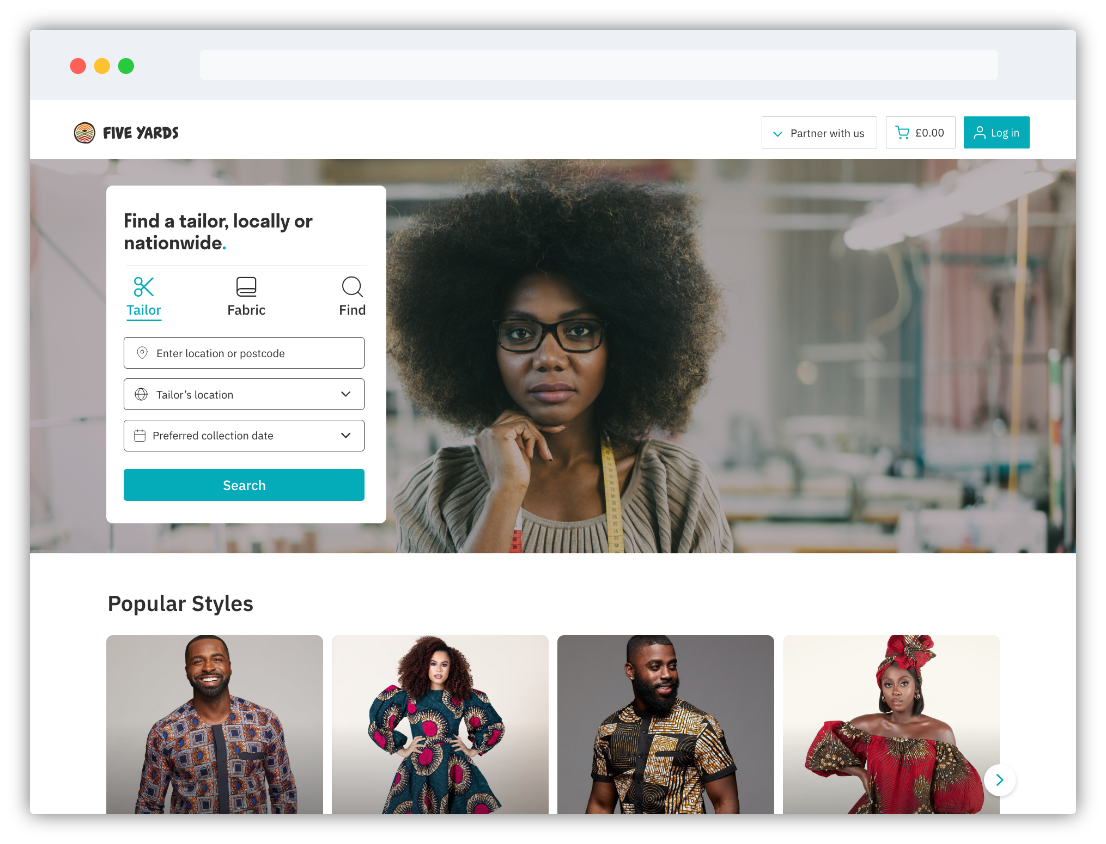
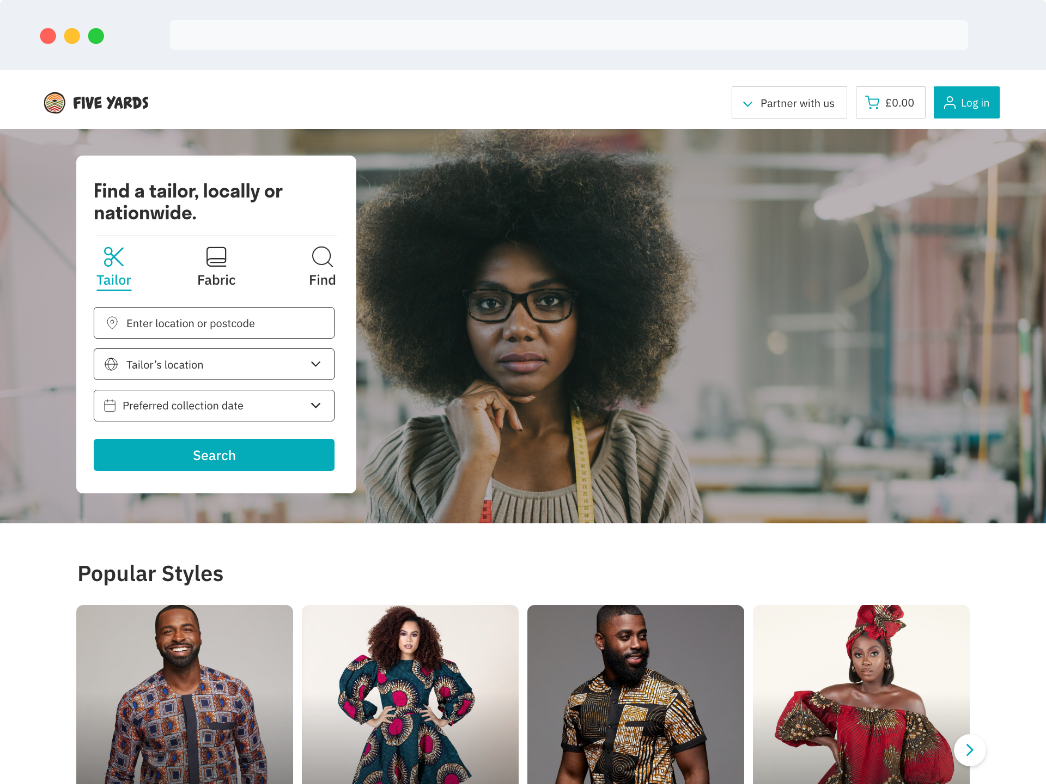
Switched ui image. Font size updates for hero.

diff --git a/src/components/hero.js b/src/components/hero.js
@@ -45,6 +45,11 @@ const Subheading = styled.h2`
   font-weight: 400;
   margin: 0 0 16px;
   @media (min-width: 768px) {
+    font-size: 16px;
+    line-height: 20px;
+    margin: 0 0 39px;
+  }
+  @media (min-width: 1280px) {
     font-size: 25px;
     line-height: 32px;
     margin: 0 0 60px;
@@ -248,7 +253,7 @@ const Hero = () => {
           }
         }
       }
-      uiImage: file(relativePath: { eq: "app-ui-old.png" }) {
+      uiImage: file(relativePath: { eq: "app-ui.png" }) {
         childImageSharp {
           fluid(maxWidth: 523) {
             ...GatsbyImageSharpFluid
@@ -309,7 +314,10 @@ const Hero = () => {
             const listData = {};
 
             try {
-              const result = await addToMailchimp(email, listData);
+              const result = await addToMailchimp(
+                email.toLowerCase(),
+                listData
+              );
 
               if (result.result === "error") {
                 const errorMessage = result.msg.includes(
